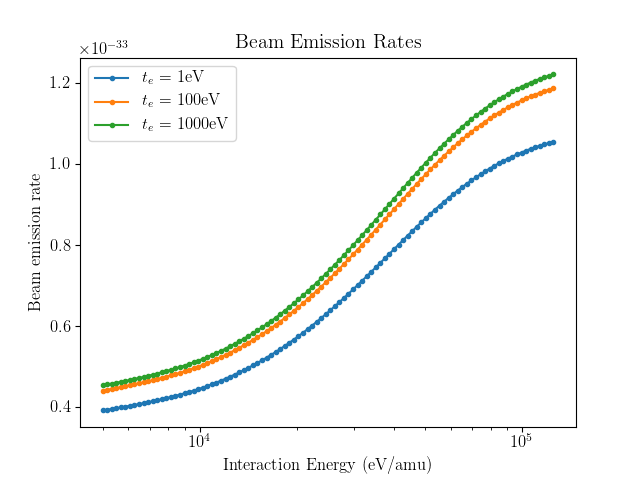
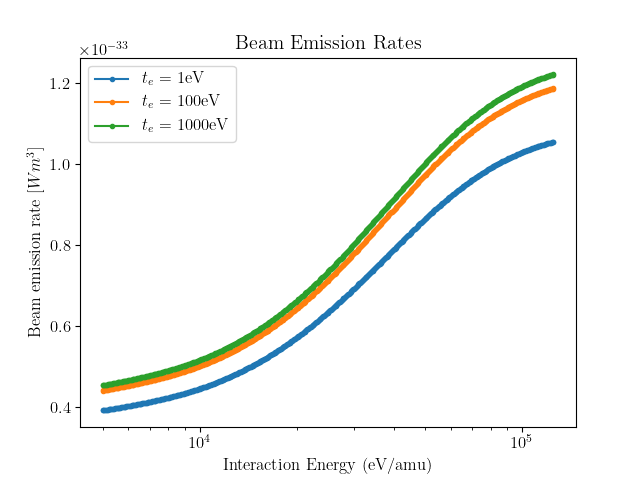
Added normalisation to parse_adas2x_rate() and fixed documentation for beam rates in response to #252

diff --git a/cherab/openadas/parse/utility.py b/cherab/openadas/parse/utility.py
@@ -17,14 +17,17 @@
 # under the Licence.
 
 import numpy as np
-from cherab.core.utility.conversion import Cm3ToM3, PerCm3ToPerM3
+from cherab.core.utility.conversion import PerCm3ToPerM3
 
 
-def parse_adas2x_rate(file):
+def parse_adas2x_rate(file, normalisation=1):
     """
     Read and parse data from the supplied adf21/22 file stream.
 
     :param file: A file stream.
+    :param normalisation: Normalisation factor applied to rate coefficients. Equals to 1E-6
+                          (cm3 to m3) for beam emission and beam stopping rates and 1 for beam
+                          population coefficient.
     :return: A dictionary.
     """
 
@@ -79,13 +82,13 @@ def parse_adas2x_rate(file):
         'n': PerCm3ToPerM3.to(np.array(raw['DT'], np.float64)),
         't': np.array(raw['TT'], np.float64),
 
-        'sen': Cm3ToM3.to(np.array(raw['SV'], np.float64)),
-        'st': Cm3ToM3.to(np.array(raw['SVT'], np.float64)),
+        'sen': normalisation * np.array(raw['SV'], np.float64),
+        'st': normalisation * np.array(raw['SVT'], np.float64),
 
         'eref': raw['EREF'],
         'nref': PerCm3ToPerM3.to(raw['DREF']),
         'tref': raw['TREF'],
-        'sref': Cm3ToM3.to(raw['SVREF'])
+        'sref': normalisation * raw['SVREF']
     }
 
 

diff --git a/cherab/openadas/parse/adf22.py b/cherab/openadas/parse/adf22.py
@@ -19,6 +19,8 @@
 from cherab.core.utility import RecursiveDict
 from .utility import parse_adas2x_rate
 
+CM3TOM3 = 1E-6
+
 
 def parse_adf22bmp(beam_species, beam_metastable, target_ion, target_charge, adf_file_path):
     """
@@ -34,7 +36,7 @@ def parse_adf22bmp(beam_species, beam_metastable, target_ion, target_charge, adf
 
     rate = RecursiveDict()
     with open(adf_file_path, 'r') as file:
-        rate[beam_species][beam_metastable][target_ion][target_charge] = parse_adas2x_rate(file)
+        rate[beam_species][beam_metastable][target_ion][target_charge] = parse_adas2x_rate(file, normalisation=1)
     return rate
 
 
@@ -52,5 +54,5 @@ def parse_adf22bme(beam_species, target_ion, target_charge, transition, adf_file
 
     rate = RecursiveDict()
     with open(adf_file_path, 'r') as file:
-        rate[beam_species][target_ion][target_charge][transition] = parse_adas2x_rate(file)
+        rate[beam_species][target_ion][target_charge][transition] = parse_adas2x_rate(file, normalisation=CM3TOM3)
     return rate

diff --git a/cherab/openadas/parse/adf21.py b/cherab/openadas/parse/adf21.py
@@ -19,6 +19,8 @@
 from cherab.core.utility import RecursiveDict
 from .utility import parse_adas2x_rate
 
+CM3TOM3 = 1E-6
+
 
 def parse_adf21(beam_species, target_ion, target_charge, adf_file_path):
     """
@@ -33,6 +35,5 @@ def parse_adf21(beam_species, target_ion, target_charge, adf_file_path):
 
     rate = RecursiveDict()
     with open(adf_file_path, 'r') as file:
-        rate[beam_species][target_ion][target_charge] = parse_adas2x_rate(file)
+        rate[beam_species][target_ion][target_charge] = parse_adas2x_rate(file, normalisation=CM3TOM3)
     return rate
-

diff --git a/docs/source/demonstrations/atomic_data/beam_plasma_interactions.rst b/docs/source/demonstrations/atomic_data/beam_plasma_interactions.rst
@@ -8,85 +8,8 @@ Some example code for requesting beam rate objects and sampling them with the __
 method.
 
 
-.. code-block:: pycon
+.. literalinclude:: ../../../../demos/openadas/beam_plasma_interaction_rates.py
 
-   >>> import numpy as np
-   >>> import matplotlib
-   >>> import matplotlib.pyplot as plt
-   >>> from cherab.core.atomic import deuterium, carbon
-   >>> from cherab.openadas import OpenADAS
-   >>>
-   >>> # Make Latex available in matplotlib figures
-   >>> matplotlib.rcParams.update({'font.size': 12})
-   >>> matplotlib.rc('text', usetex=True)
-   >>> matplotlib.rc('font', **{'family': 'serif', 'serif': ['Computer Modern']})
-   >>>
-   >>> # initialise the atomic data provider
-   >>> adas = OpenADAS(permit_extrapolation=True)
-   >>>
-   >>> # Request beam stopping rate and sample at three different electron temperatures
-   >>> bms = adas.beam_stopping_rate(deuterium, carbon, 6)
-   >>> beam_energies = [10**x for x in np.linspace(np.log10(5000), np.log10(125000), num=num_points)]
-   >>> bms_rates_1 = [bms(x, 1E19, 1) for x in beam_energies]
-   >>> bms_rates_2 = [bms(x, 1E19, 100) for x in beam_energies]
-   >>> bms_rates_3 = [bms(x, 1E19, 1000) for x in beam_energies]
-   >>>
-   >>> # plot the beam stopping rates
-   >>> plt.figure()
-   >>> plt.semilogx(beam_energies, bms_rates_1, '.-', label=r'$t_e$ = 1eV')
-   >>> plt.semilogx(beam_energies, bms_rates_2, '.-', label=r'$t_e$ = 100eV')
-   >>> plt.semilogx(beam_energies, bms_rates_3, '.-', label=r'$t_e$ = 1000eV')
-   >>> plt.xlabel("Interaction Energy (eV/amu)")
-   >>> plt.ylabel(r"$S^{e, i}_{CR}$ ($m^3s^{-1}$)")
-   >>> plt.title("Beam Stopping Rates")
-   >>> plt.legend()
-   >>>
-   >>> # Sample the beam population rates
-   >>> bmp = adas.beam_population_rate(deuterium, 2, carbon, 6)
-   >>> bmp_rates_1 = [bmp(x, 1E19, 1) for x in beam_energies]
-   >>> bmp_rates_2 = [bmp(x, 1E19, 100) for x in beam_energies]
-   >>> bmp_rates_3 = [bmp(x, 1E19, 1000) for x in beam_energies]
-   >>>
-   >>> # plot the beam population rates
-   >>> plt.figure()
-   >>> plt.semilogx(beam_energies, bmp_rates_1, '.-', label=r'$t_e$ = 1eV')
-   >>> plt.semilogx(beam_energies, bmp_rates_2, '.-', label=r'$t_e$ = 100eV')
-   >>> plt.semilogx(beam_energies, bmp_rates_3, '.-', label=r'$t_e$ = 1000eV')
-   >>> plt.xlabel("Interaction Energy (eV/amu)")
-   >>> plt.ylabel(r"Beam population rate (dimensionless)")
-   >>> plt.title("Beam Population Rates")
-   >>> plt.legend()
-   >>>
-   >>> # Sample the beam emission rates
-   >>> bme = adas.beam_emission_pec(deuterium, deuterium, 1, (3, 2))
-   >>> bme_rates_1 = [bme(x, 1E19, 1) for x in beam_energies]
-   >>> bme_rates_2 = [bme(x, 1E19, 100) for x in beam_energies]
-   >>> bme_rates_3 = [bme(x, 1E19, 1000) for x in beam_energies]
-   >>>
-   >>> # plot the beam emission rates
-   >>> plt.figure()
-   >>> plt.semilogx(beam_energies, bme_rates_1, '.-', label=r'$t_e$ = 1eV')
-   >>> plt.semilogx(beam_energies, bme_rates_2, '.-', label=r'$t_e$ = 100eV')
-   >>> plt.semilogx(beam_energies, bme_rates_3, '.-', label=r'$t_e$ = 1000eV')
-   >>> plt.xlabel("Interaction Energy (eV/amu)")
-   >>> plt.ylabel(r"$q^{eff}_{n\rightarrow n'}$ [$W m^{3} s^{-1} str^{-1}$]")
-   >>> plt.title("Beam Emission Rates")
-   >>> plt.legend()
-   >>>
-   >>> # Sample the effective CX emission rates
-   >>> cxr = adas.beam_cx_rate(deuterium, carbon, 6, (8, 7))
-   >>> cxr_n1, cxr_n2 = cxr
-   >>> cxr_rate_1 = [cxr[0](x, 100, 1E19, 1, 1) for x in beam_energies]
-   >>> cxr_rate_2 = [cxr[1](x, 1000, 1E19, 1, 1) for x in beam_energies]
-   >>>
-   >>> # plot the effective CX emission rates
-   >>> plt.figure()
-   >>> plt.loglog(beam_energies, cxr_rate_1, '.-', label='n=1 donor')
-   >>> plt.loglog(beam_energies, cxr_rate_2, '.-', label='n=2 donor')
-   >>> plt.xlabel("Interaction Energy (eV/amu)")
-   >>> plt.ylabel(r"$q^{eff}_{n\rightarrow n'}$ [$W m^{3} s^{-1} str^{-1}$]")
-   >>> plt.title("Effective CX rate")
-   >>> plt.legend()
 
 .. figure:: beam_stopping_rates.png
    :align: center

diff --git a/docs/source/atomic/rate_coefficients.rst b/docs/source/atomic/rate_coefficients.rst
@@ -106,7 +106,7 @@ method.
    >>> from cherab.openadas import OpenADAS
    >>>
    >>> # initialise the atomic data provider
-   >>> adas = OpenADAS()
+   >>> adas = OpenADAS(permit_extrapolation=True)
    >>>
    >>> # Request beam stopping rate and sample
    >>> bms = adas.beam_stopping_rate(deuterium, carbon, 6)
@@ -116,38 +116,15 @@ method.
    >>> # Sample the beam population rate
    >>> bmp = adas.beam_population_rate(deuterium, 2, carbon, 6)
    >>> bmp(50000, 1E19, 1)
-   7.599066e-10
+   7.599066e-4
    >>>
    >>> # Sample the beam emission rate
    >>> bme = adas.beam_emission_pec(deuterium, deuterium, 1, (3, 2))
    >>> bme(50000, 1E19, 1)
    8.651598e-34
 
-.. class:: cherab.core.atomic.rates.BeamCXRate
-
-   :math:`q^{eff}_{n\rightarrow n'}` [:math:`photon.m^{3}.s^{-1}.str^{-1}`]
-
-   Effective emission coefficient (or rate) for a charge-exchange line corresponding to a
-   transition :math:`n\rightarrow n'` of ion :math:`Z^{(\alpha+1)+}` with electron donor
-   :math:`H^0` in metastable state :math:`m_{i}`. Equivalent to
-   :math:`q^{eff}_{n\rightarrow n'}` in `adf12 <http://open.adas.ac.uk/adf12>`_.
-
-   .. function:: __call__(energy, temperature, density, z_effective, b_field)
-
-      Returns the associated beam CX rate at the specified plasma conditions.
-
-      This function just wraps the cython evaluate() method.
-
-   .. function:: evaluate(energy, temperature, density, z_effective, b_field)
-
-      Returns the beam CX rate for the supplied parameters.
-
-      :param float energy: Interaction energy in eV/amu.
-      :param float temperature: Receiver ion temperature in eV.
-      :param float density: Receiver ion density in m^-3
-      :param float z_effective: Plasma Z-effective.
-      :param float b_field: Magnetic field magnitude in Tesla.
-      :return: The effective rate
+.. autoclass:: cherab.core.atomic.rates.BeamCXPEC
+   :members: __call__, evaluate
 
 Some example code for requesting beam CX rate object and sampling it with the __call__() method.
 
@@ -157,9 +134,9 @@ Some example code for requesting beam CX rate object and sampling it with the __
    >>> from cherab.openadas import OpenADAS
    >>>
    >>> # initialise the atomic data provider
-   >>> adas = OpenADAS()
+   >>> adas = OpenADAS(permit_extrapolation=True)
    >>>
-   >>> cxr = adas.beam_cx_rate(deuterium, carbon, 6, (8, 7))
+   >>> cxr = adas.beam_cx_pec(deuterium, carbon, 6, (8, 7))
    >>> cxr_n1, cxr_n2 = cxr
    >>> cxr_n1(50000, 100, 1E19, 1, 1)
    5.826619e-33
